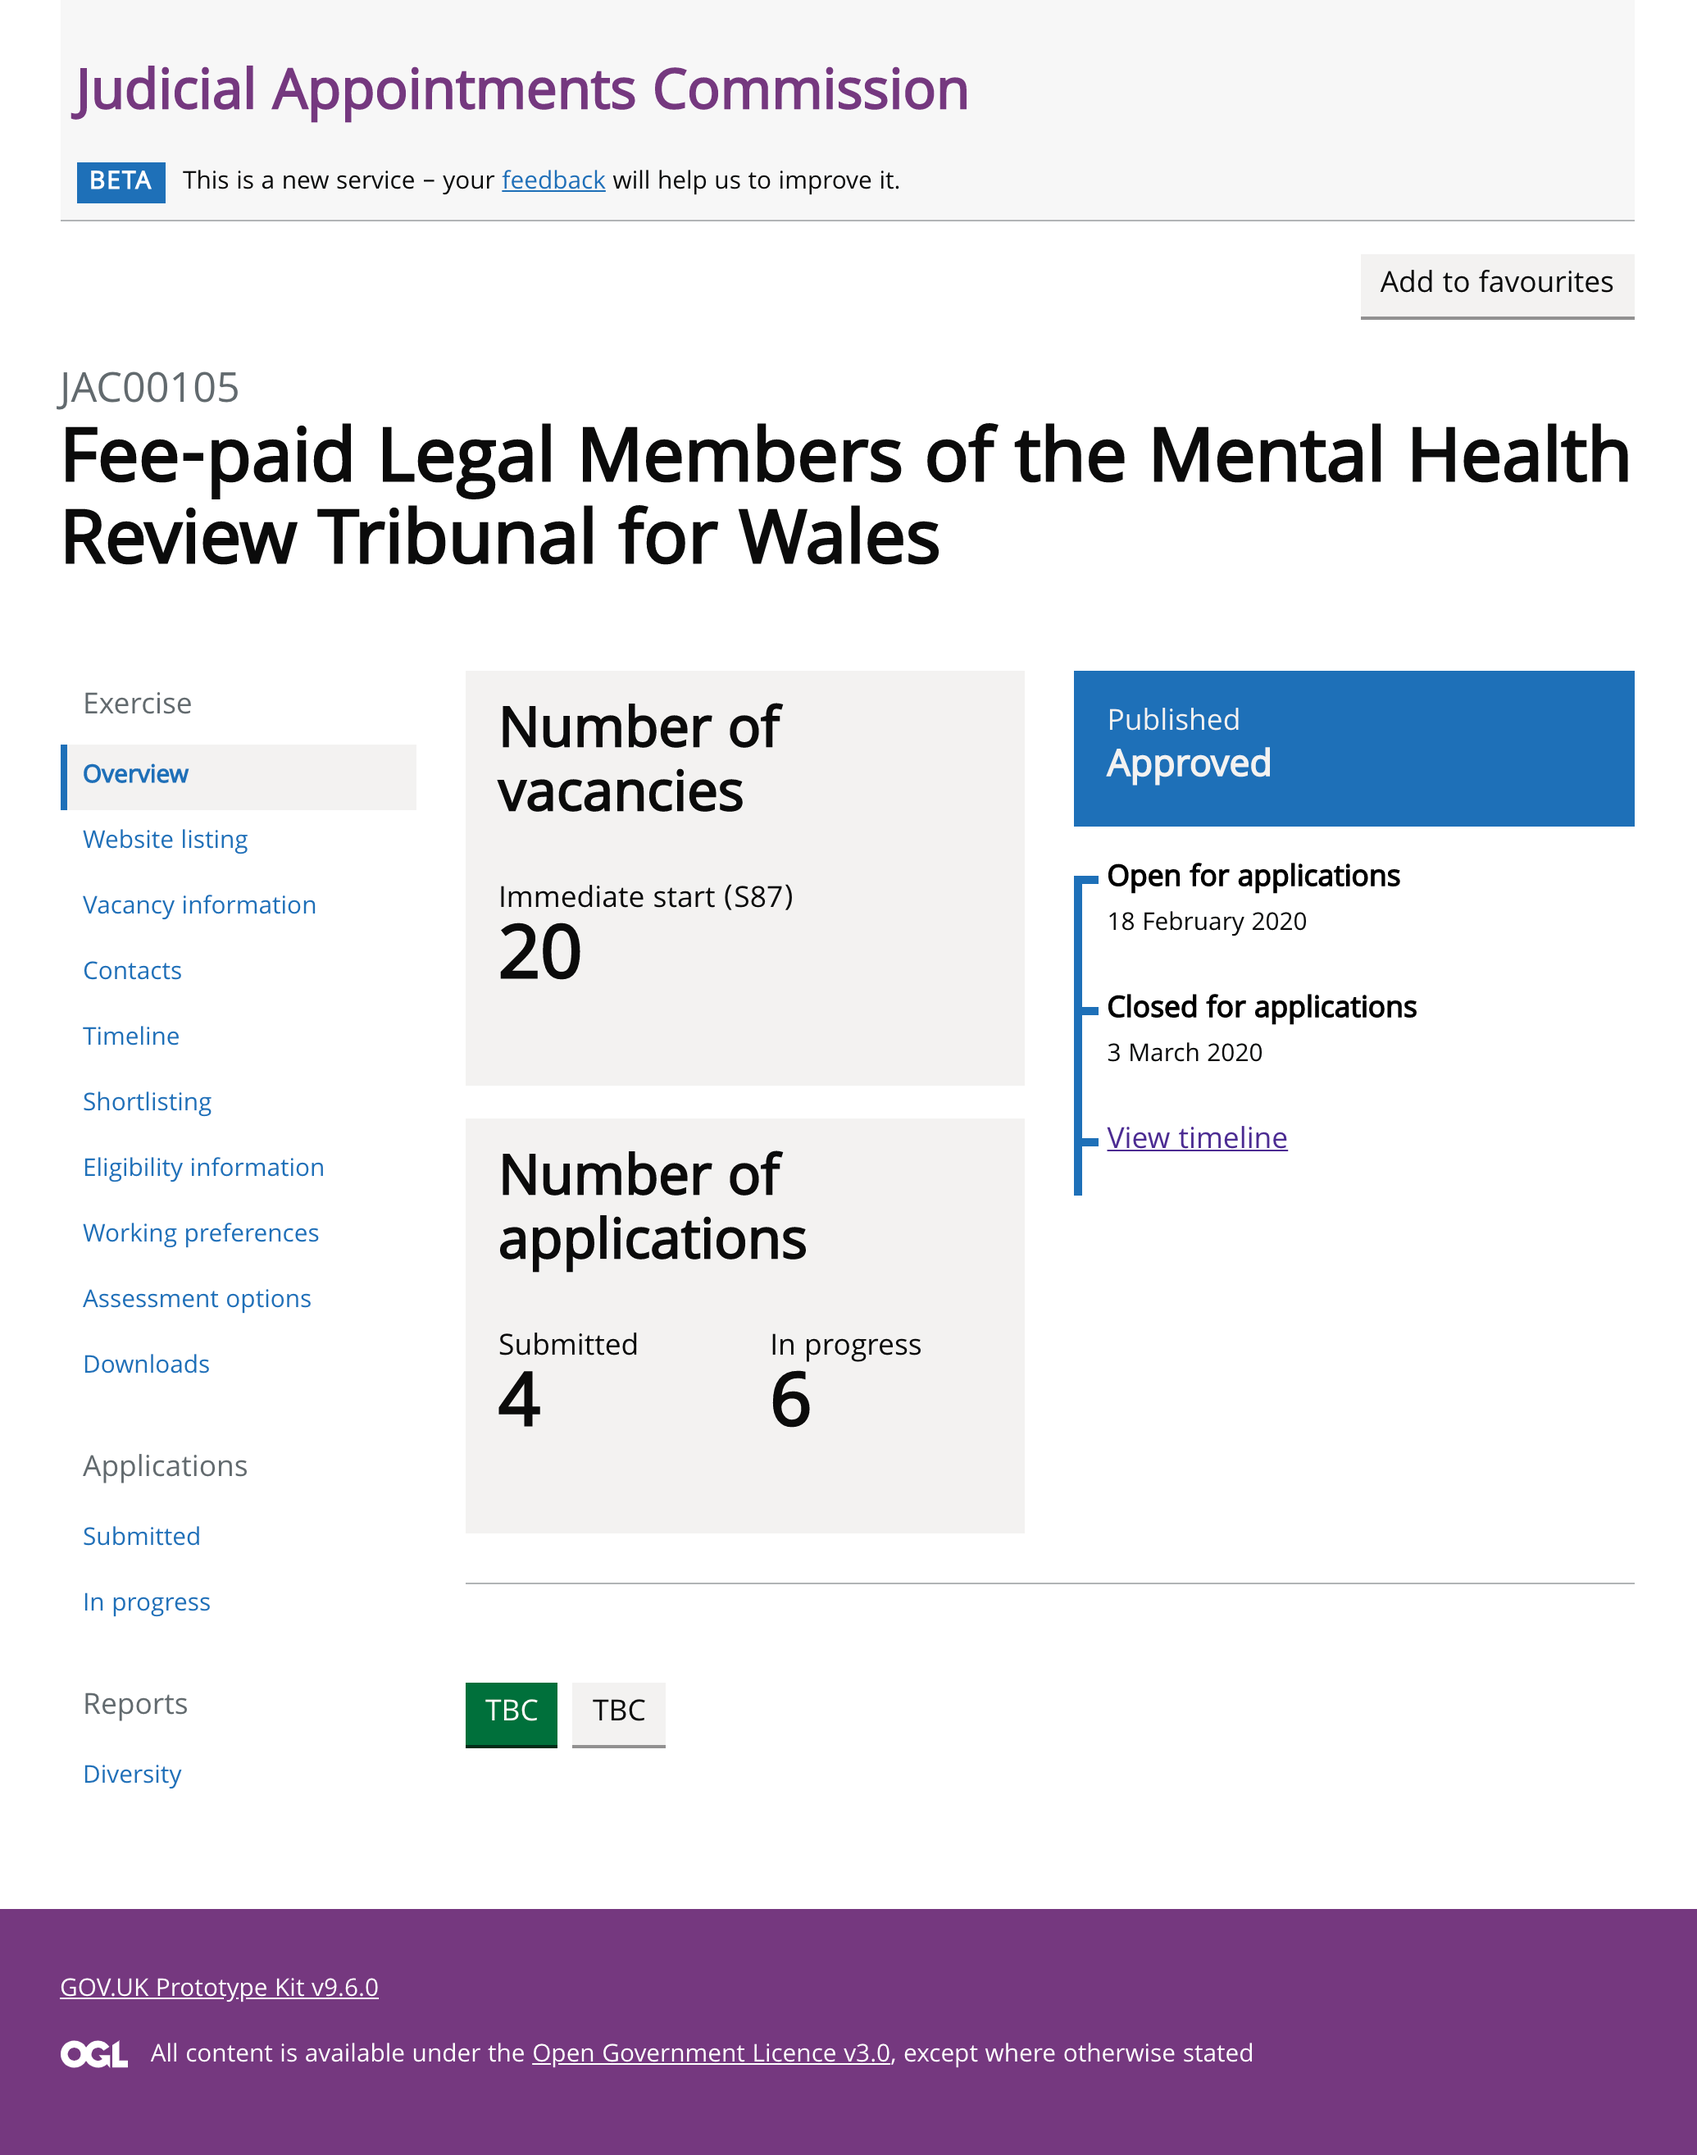
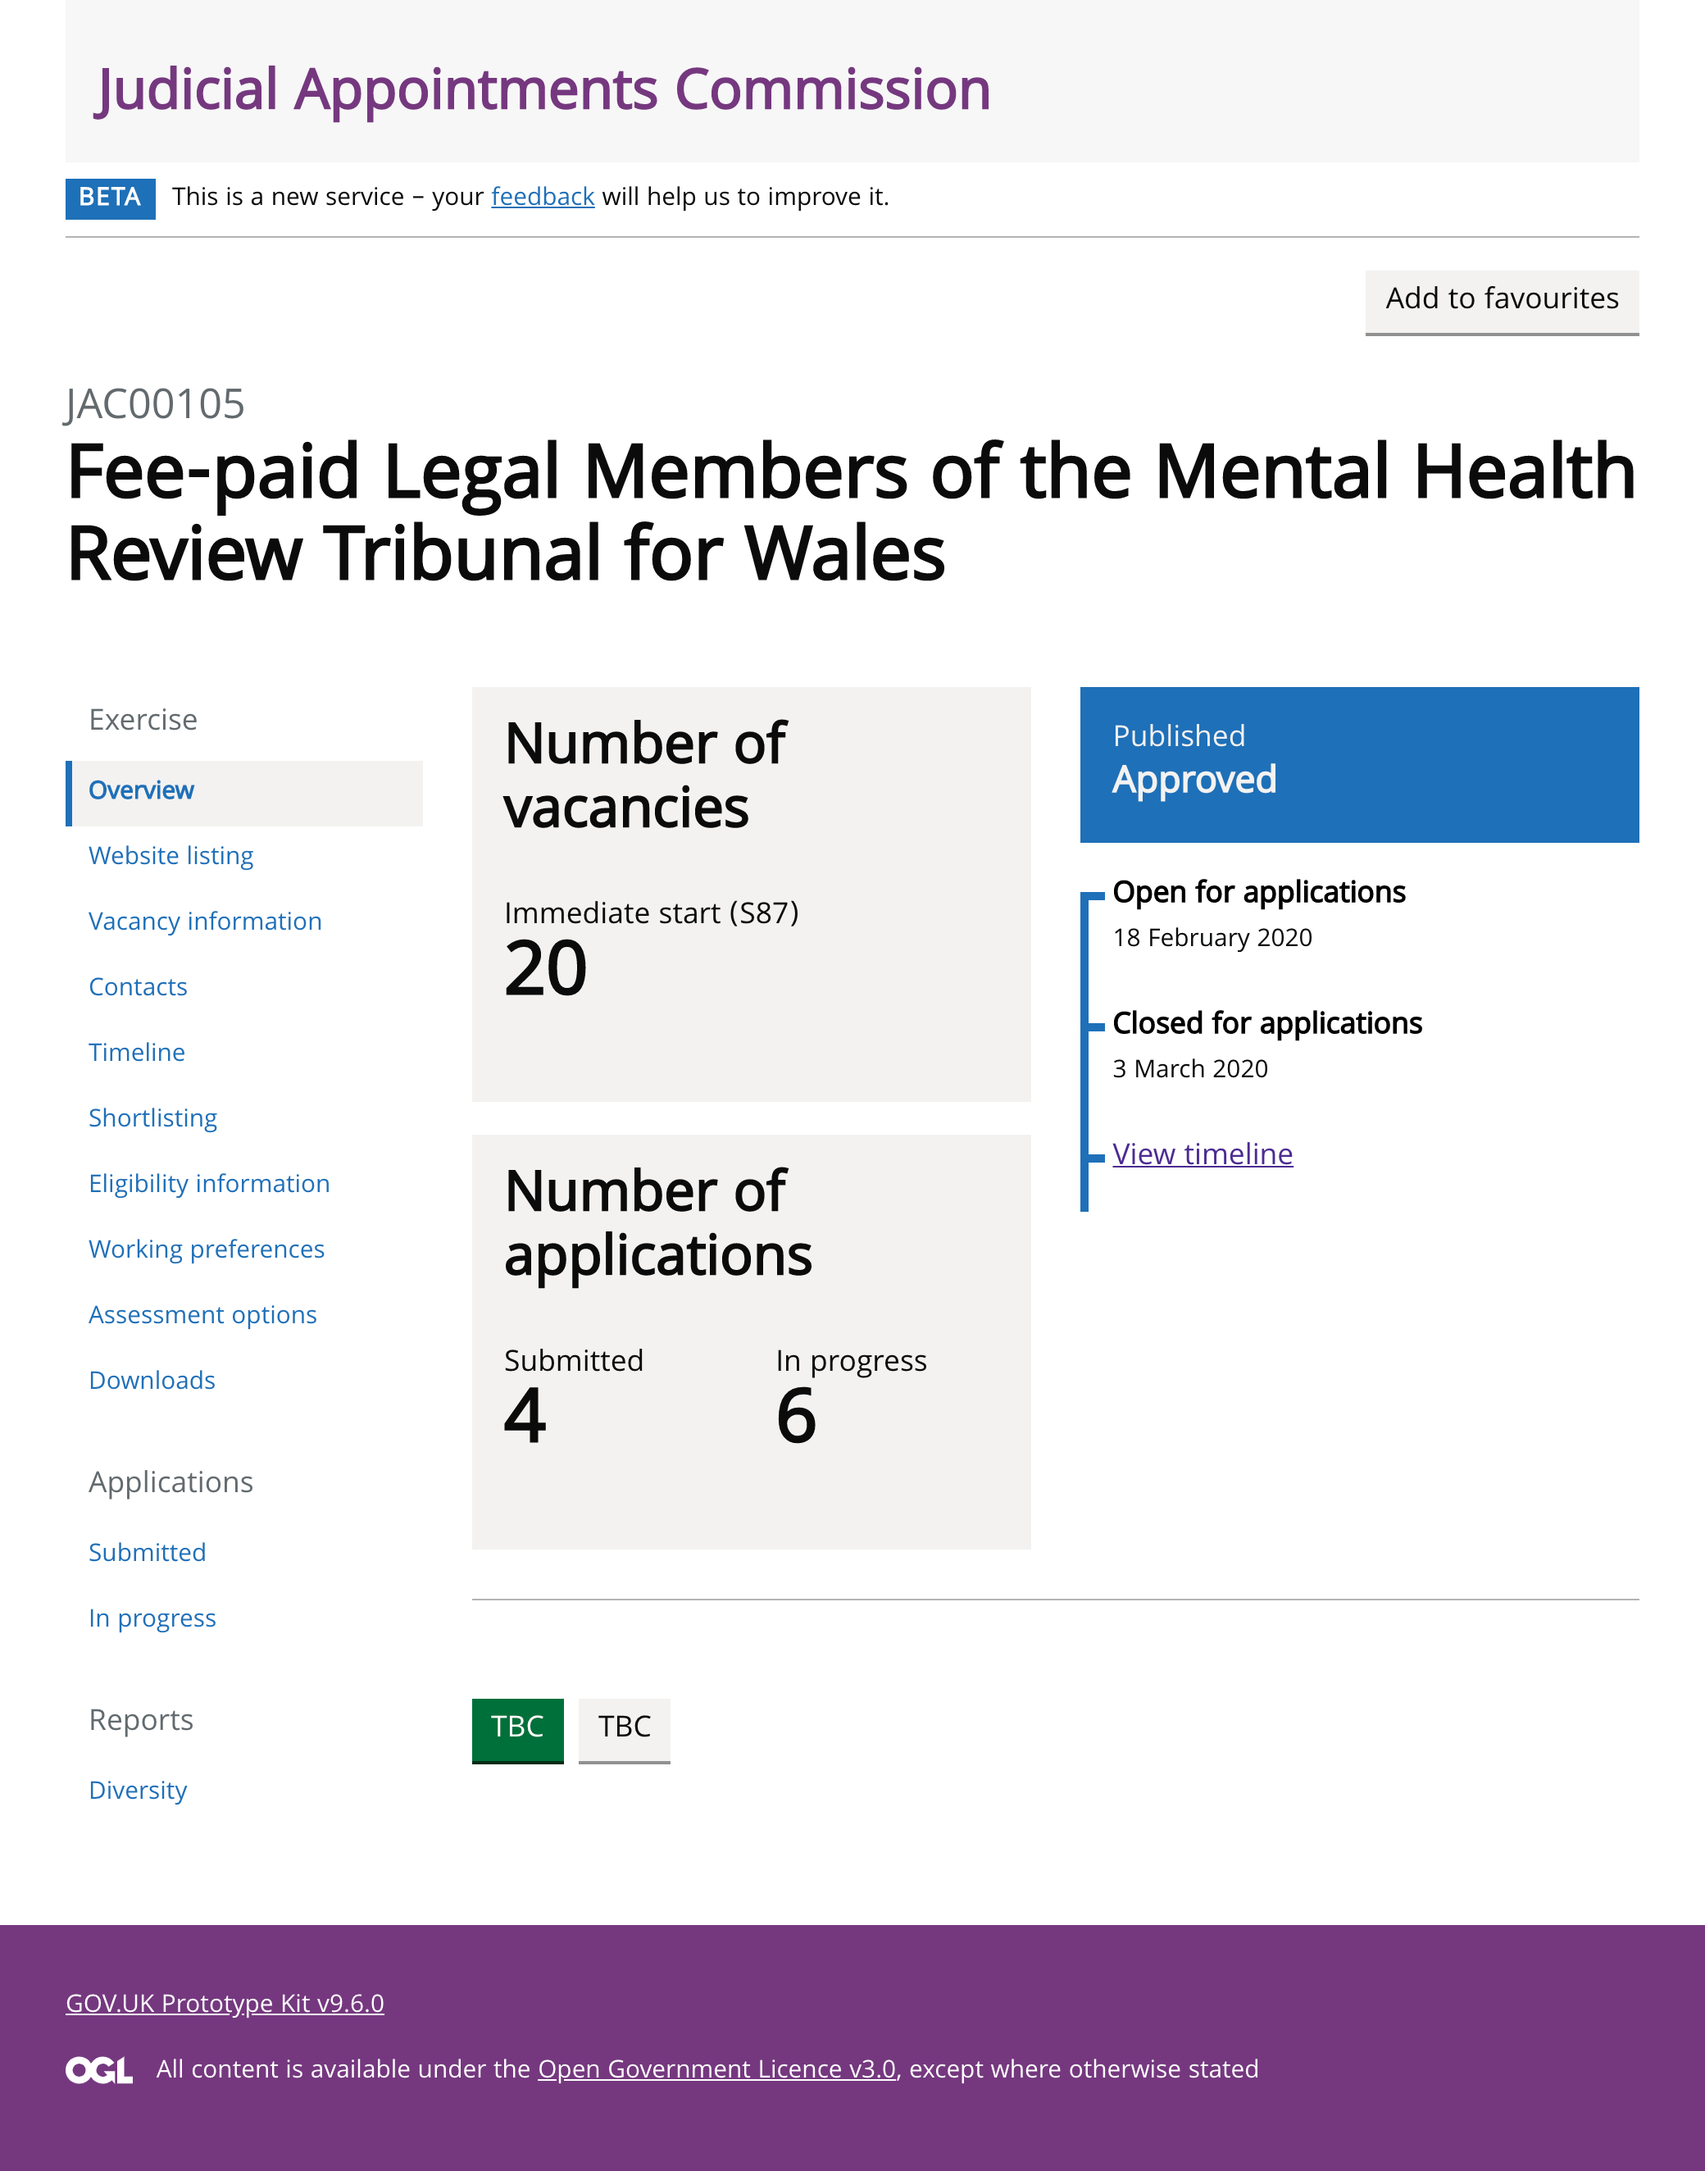
Updated header

diff --git a/app/views/includes/header.html b/app/views/includes/header.html
@@ -1,9 +1,15 @@
 <div class="header-background">
 	<h1 class="govuk-heading-l govuk-!-margin-bottom-2"><a href="/" class="govuk-link govuk-link--no-visited-state">Judicial Appointments Commission</a></h1>
-	<div class="govuk-phase-banner">
+	<!-- <div class="govuk-phase-banner">
 		<p class="govuk-phase-banner__content">
 			<strong class="govuk-tag govuk-phase-banner__content__tag">beta</strong>
 			<span class="govuk-phase-banner__text">This is a new service – your <a class="govuk-link govuk-link--no-visited-state" href="#">feedback</a> will help us to improve it.</span>
 		</p>
-	</div>
+	</div> -->
+</div>
+<div class="govuk-phase-banner">
+	<p class="govuk-phase-banner__content">
+		<strong class="govuk-tag govuk-phase-banner__content__tag">beta</strong>
+		<span class="govuk-phase-banner__text">This is a new service – your <a class="govuk-link govuk-link--no-visited-state" href="#">feedback</a> will help us to improve it.</span>
+	</p>
 </div>

diff --git a/app/assets/sass/unbranded.scss b/app/assets/sass/unbranded.scss
@@ -29,8 +29,9 @@ $govuk-canvas-background-colour: $govuk-body-background-colour;
 
 .header-background {
     background-color: #f7f7f7;
-    padding: 40px 10px 0 10px;
-	border-bottom: 1px solid #b1b4b6;
+	// padding: 40px 10px 0 10px;
+	padding: 40px 10px 10px 20px;
+	// border-bottom: 1px solid #b1b4b6;
 	margin-top: 0 !important;
 }
 
@@ -44,7 +45,7 @@ $govuk-canvas-background-colour: $govuk-body-background-colour;
 }
 
 .govuk-phase-banner {
-	border-bottom: 0;
+	// border-bottom: 0;
 }
 
 .img-border {
